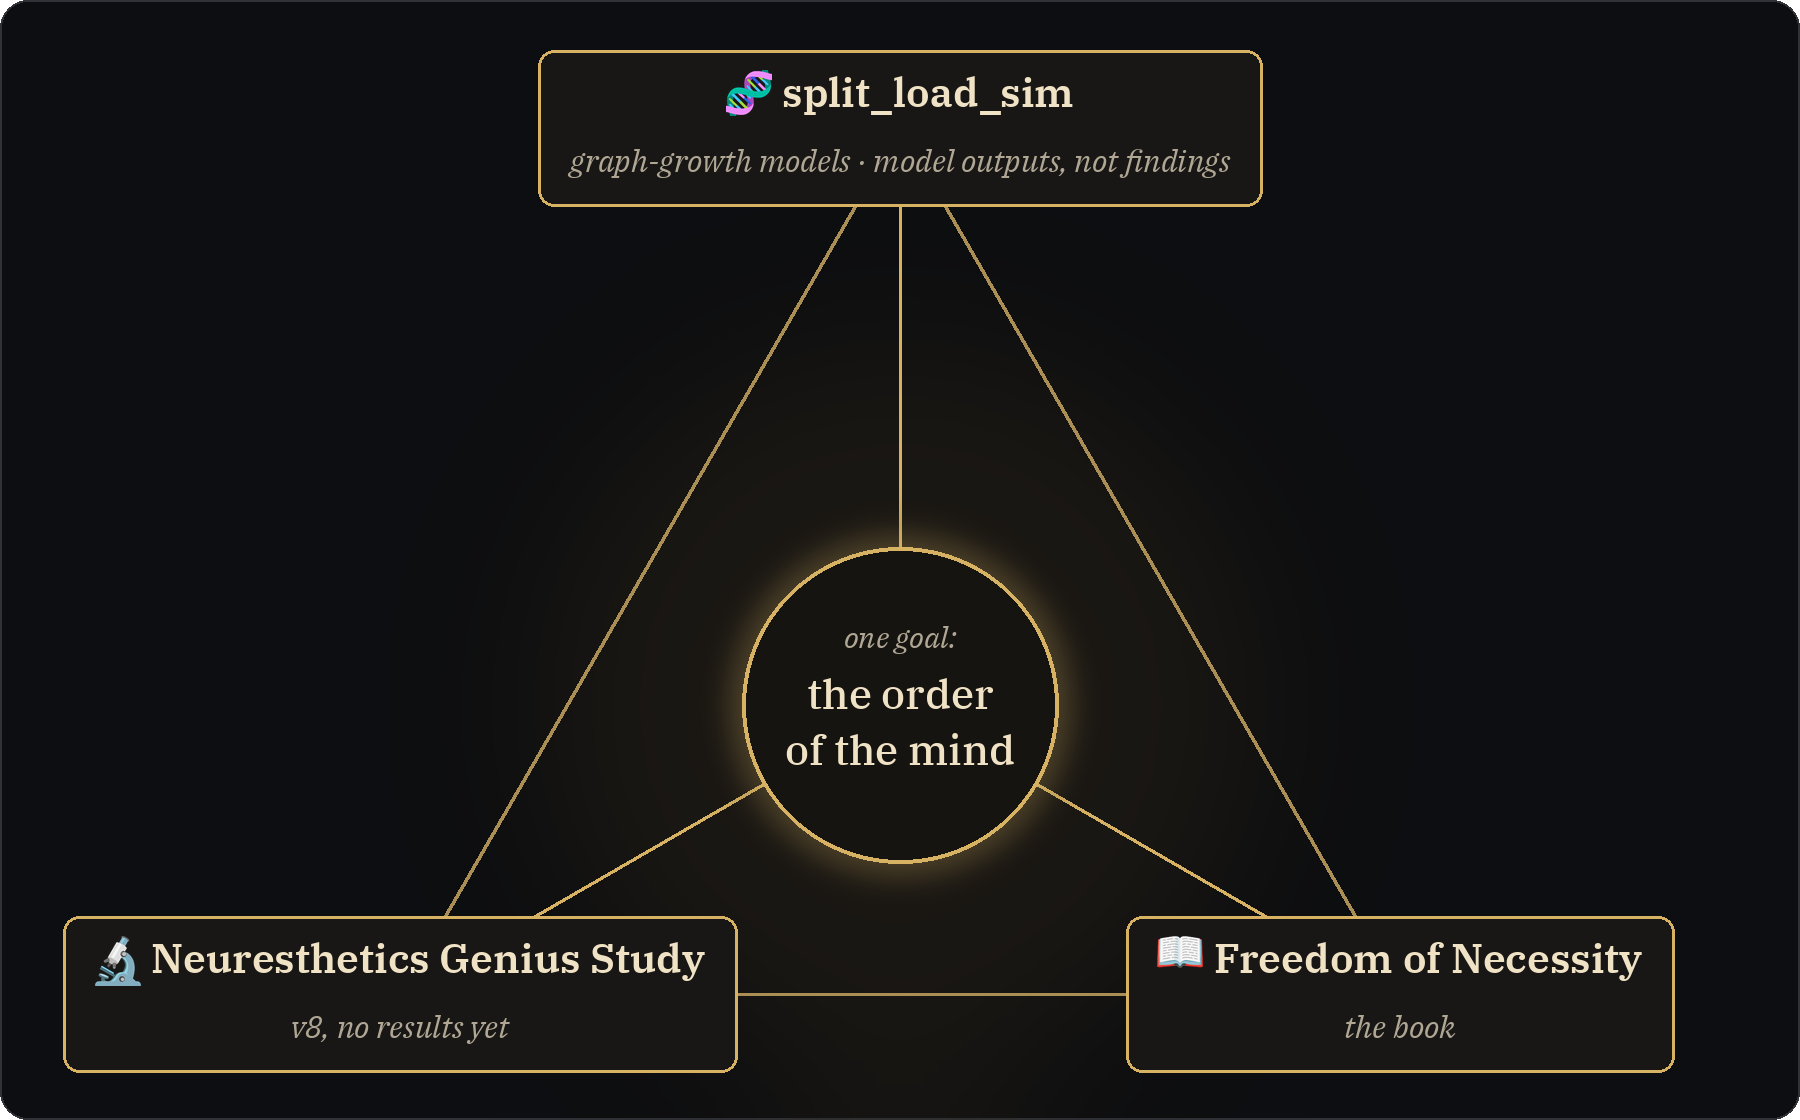
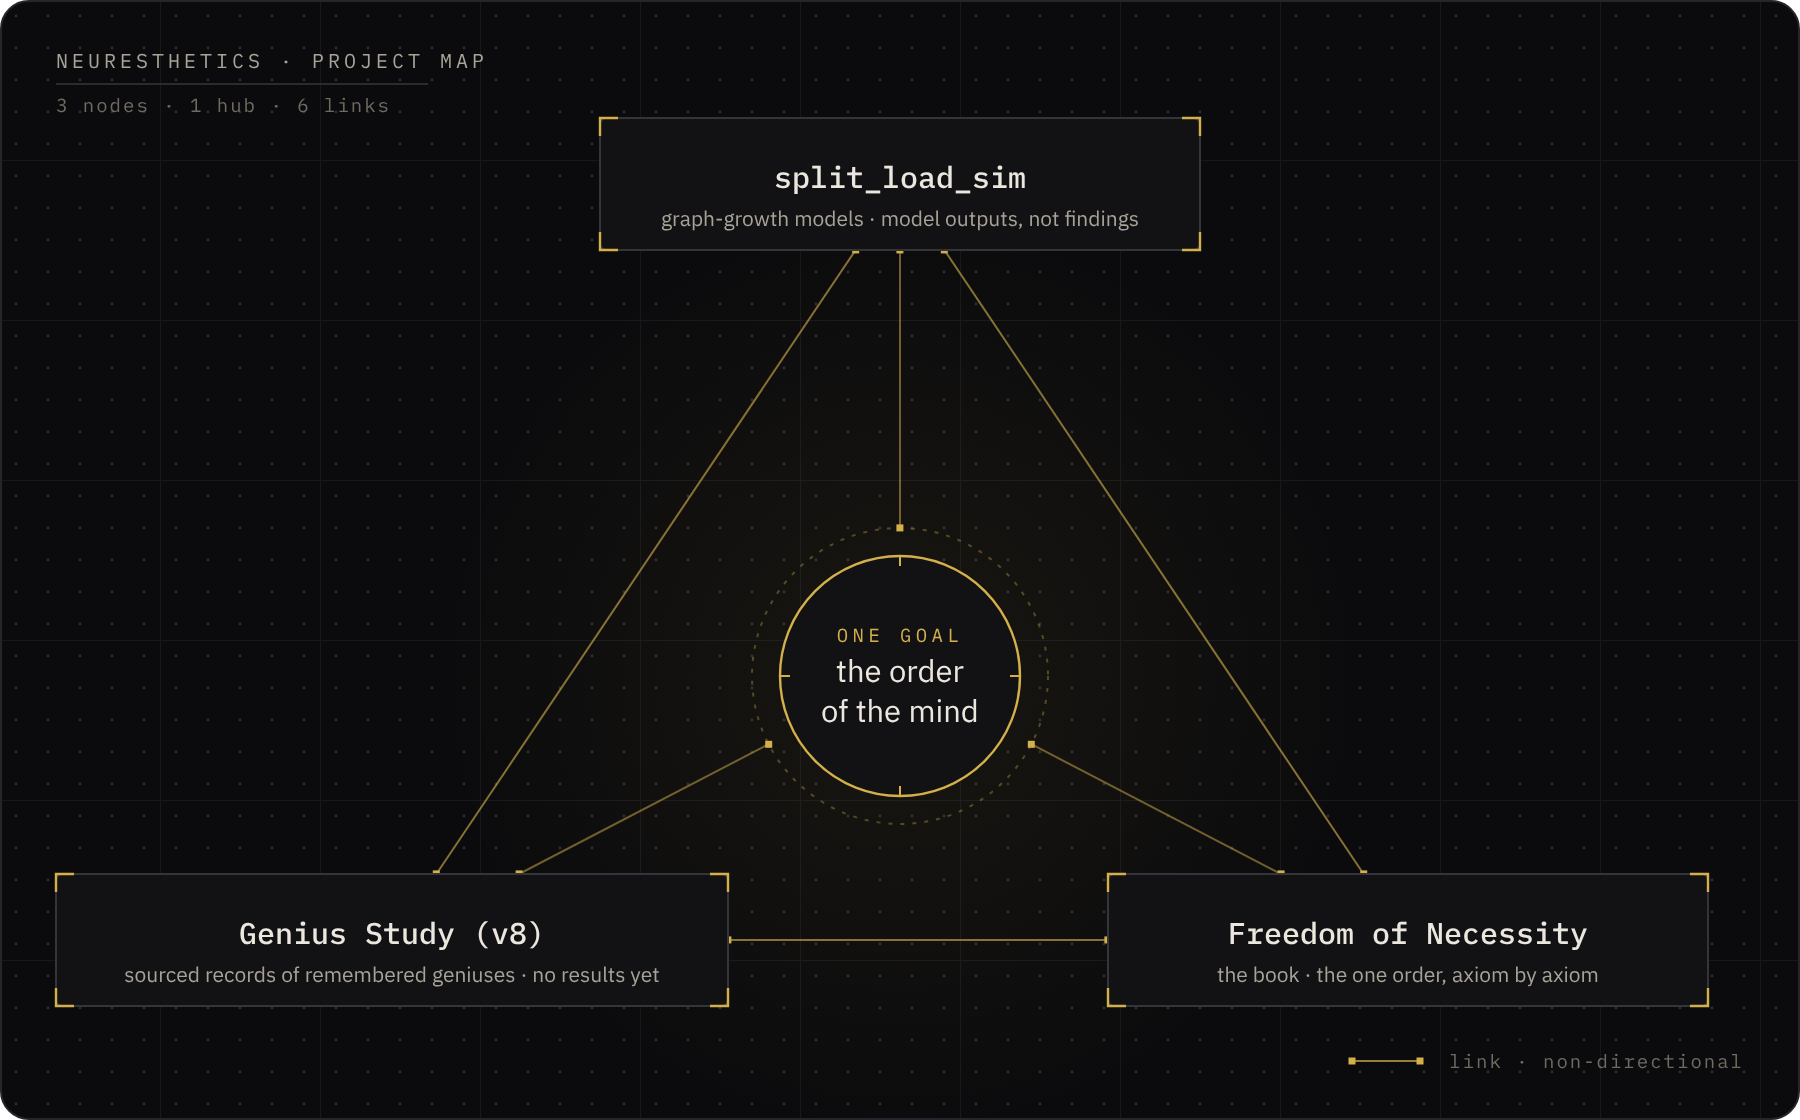
Project map v2: technical schematic restyle; alt text describes the linked nodes and hub

diff --git a/README.md b/README.md
@@ -95,7 +95,7 @@ I build tools for people who work with their hands and their heads: 🛠 fiel
 The study, the book and split_load_sim are the three sides of the Neuresthetics project. The Genius Study (v8) collects sourced records of remembered geniuses and states a labeled belief model about how early lawful form might pay off; the book builds, axiom by axiom, the one order (God or Nature) to which the brain and its society belong. split_load_sim is how we go between them. None of the three comes first; each draws on the other two, circling one goal. split_load_sim grows graphs as models of how a mind's maps could be structured, drawing on the book's axioms and testing whether the study's Lane B assumptions produce the effect they claim inside the model. Its results are model outputs, not findings, and the study has no results yet. The book in turn tries to key in on what makes v8 go around, and findings in any one can send the others back to work.
 
 <p align="center">
-  <img src="img/side-projects-map.png" width="720" alt="Map of the side projects: an equilateral triangle with the Neuresthetics Genius Study (v8, no results yet), split_load_sim (graph-growth models, model outputs, not findings) and Freedom of Necessity (the book) at the corners, each joined to the other two and to a circle at the centre that reads 'one goal: the order of the mind'">
+  <img src="img/side-projects-map.png" width="720" alt="Project map: three linked nodes around a central hub that reads 'one goal: the order of the mind'. split_load_sim (graph-growth models · model outputs, not findings), Genius Study (v8) (sourced records of remembered geniuses · no results yet) and Freedom of Necessity (the book · the one order, axiom by axiom) are each linked to the other two and to the hub. The links are non-directional.">
 </p>
 
 <table>
